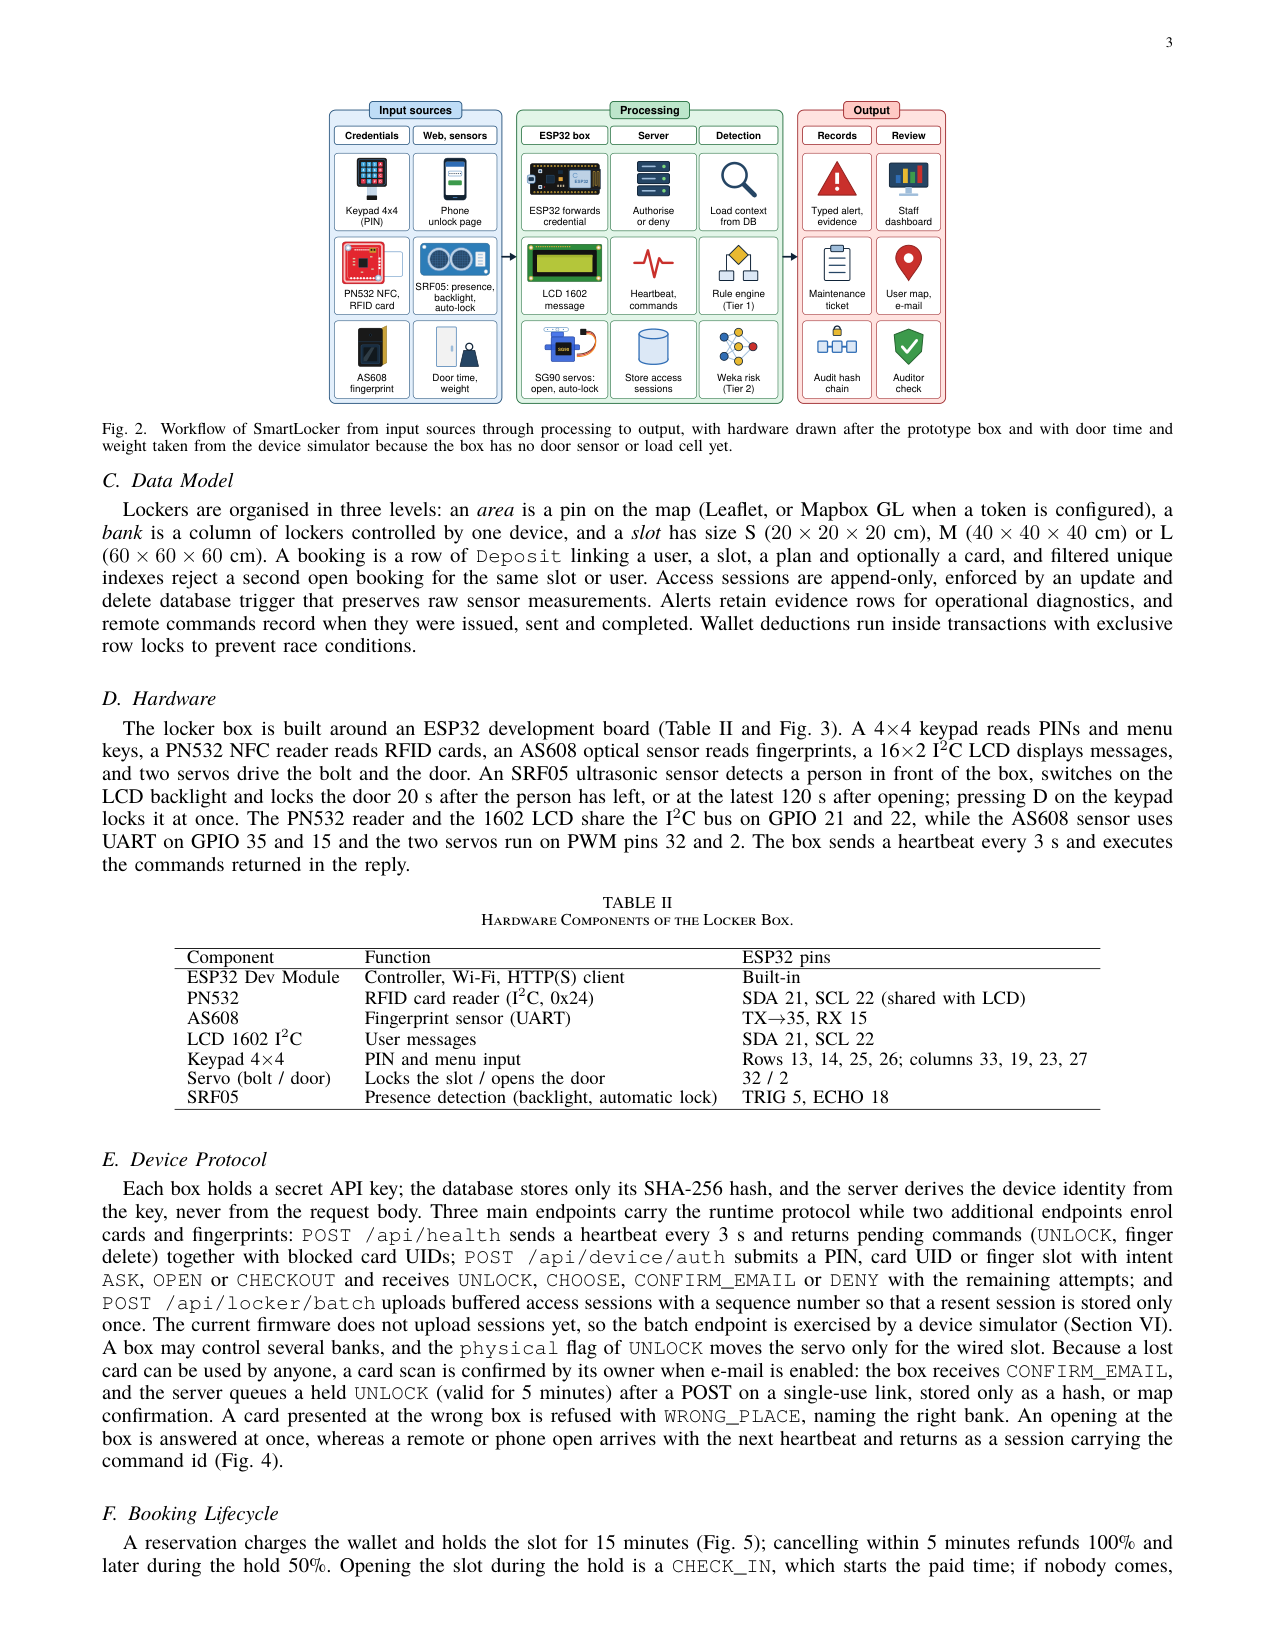
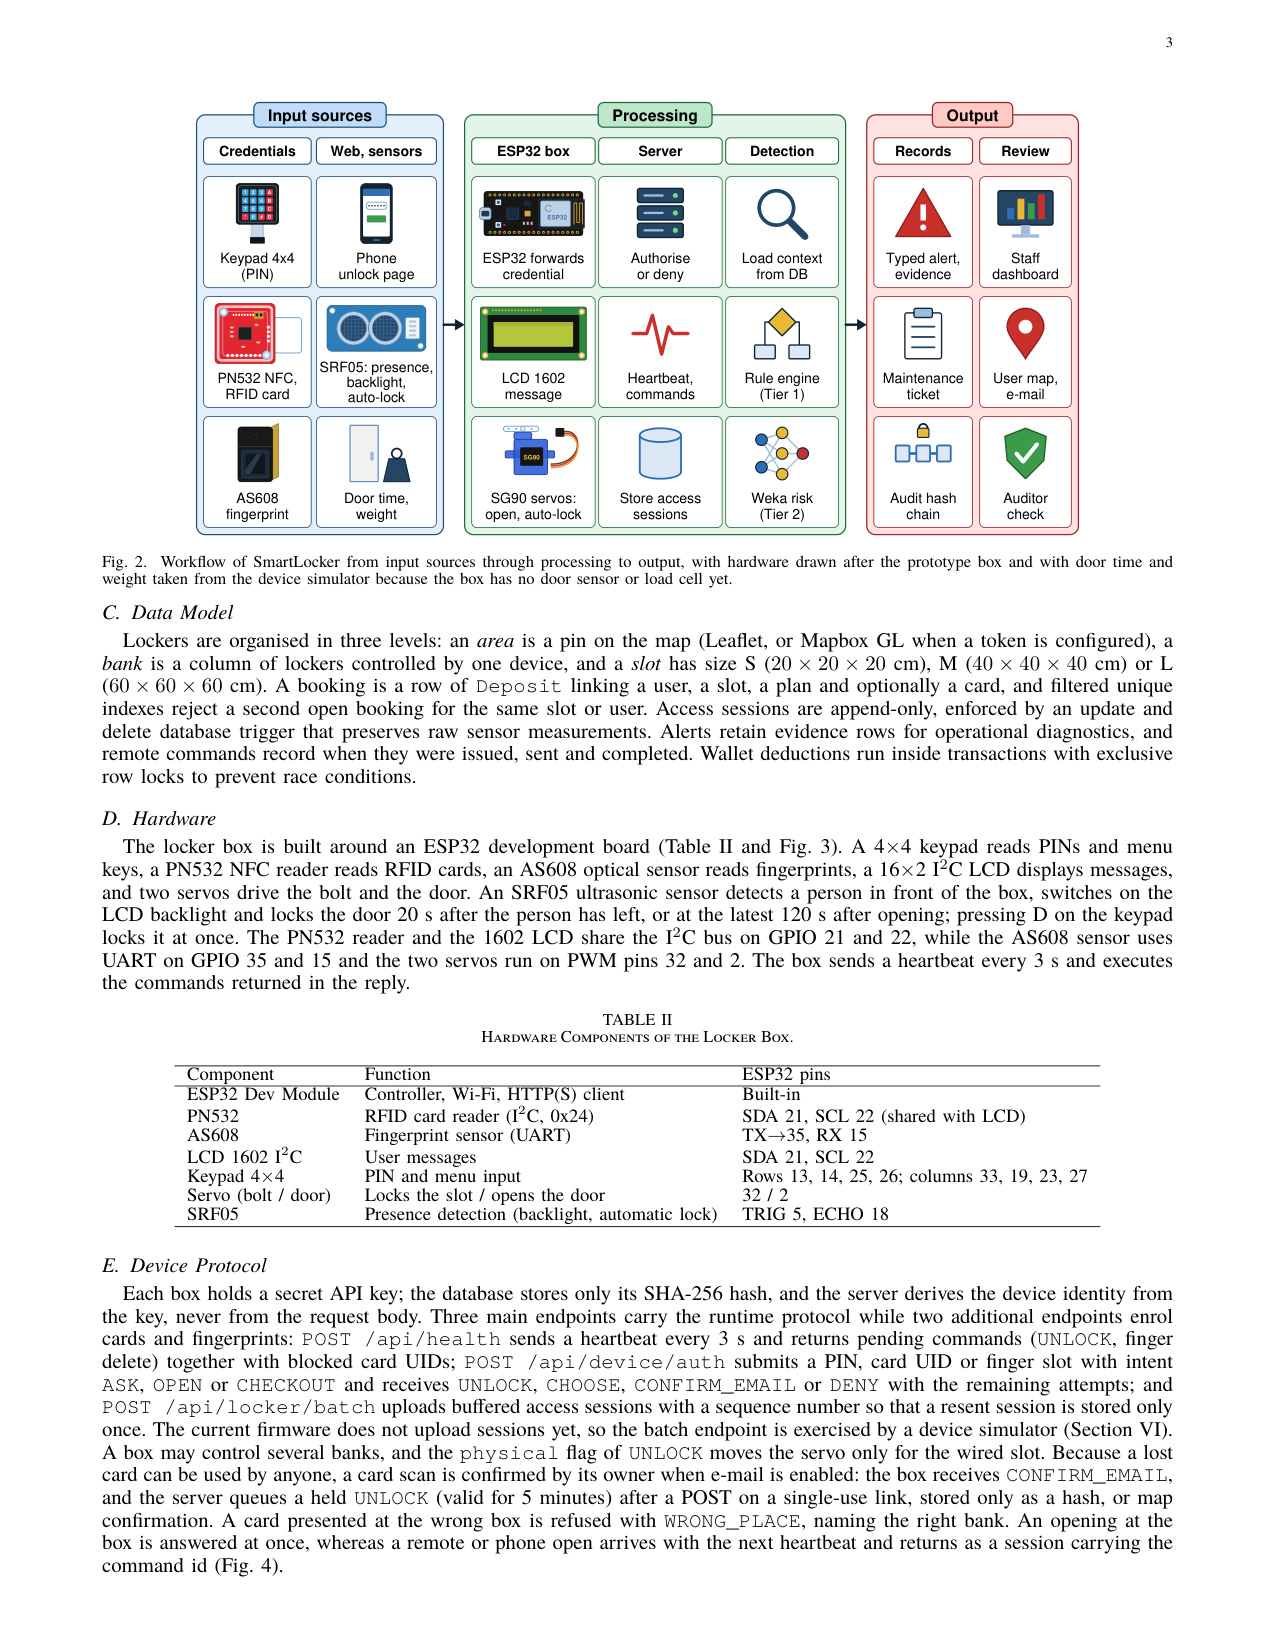
docs(paper): enlarge Fig. 2 workflow diagram to match width of other diagrams

Changed region(s): [[0.0612, 0.0618, 0.9176, 0.9582], [0.7953, 0.6182, 0.8565, 0.6491]]

diff --git a/docs/paper/smartlocker-10p.tex b/docs/paper/smartlocker-10p.tex
@@ -244,7 +244,7 @@ Tomcat application through separate entry points and every outcome is stored in 
 
 \begin{figure}[!htbp]
 \centering
-\includegraphics[width=0.58\linewidth]{images/workflow.pdf}
+\includegraphics[width=0.83\linewidth]{images/workflow.pdf}
 \caption{Workflow of SmartLocker from input sources through processing to output, with hardware drawn after the
 prototype box and with door time and weight taken from the device simulator because the box has no door sensor or load
 cell yet.}
